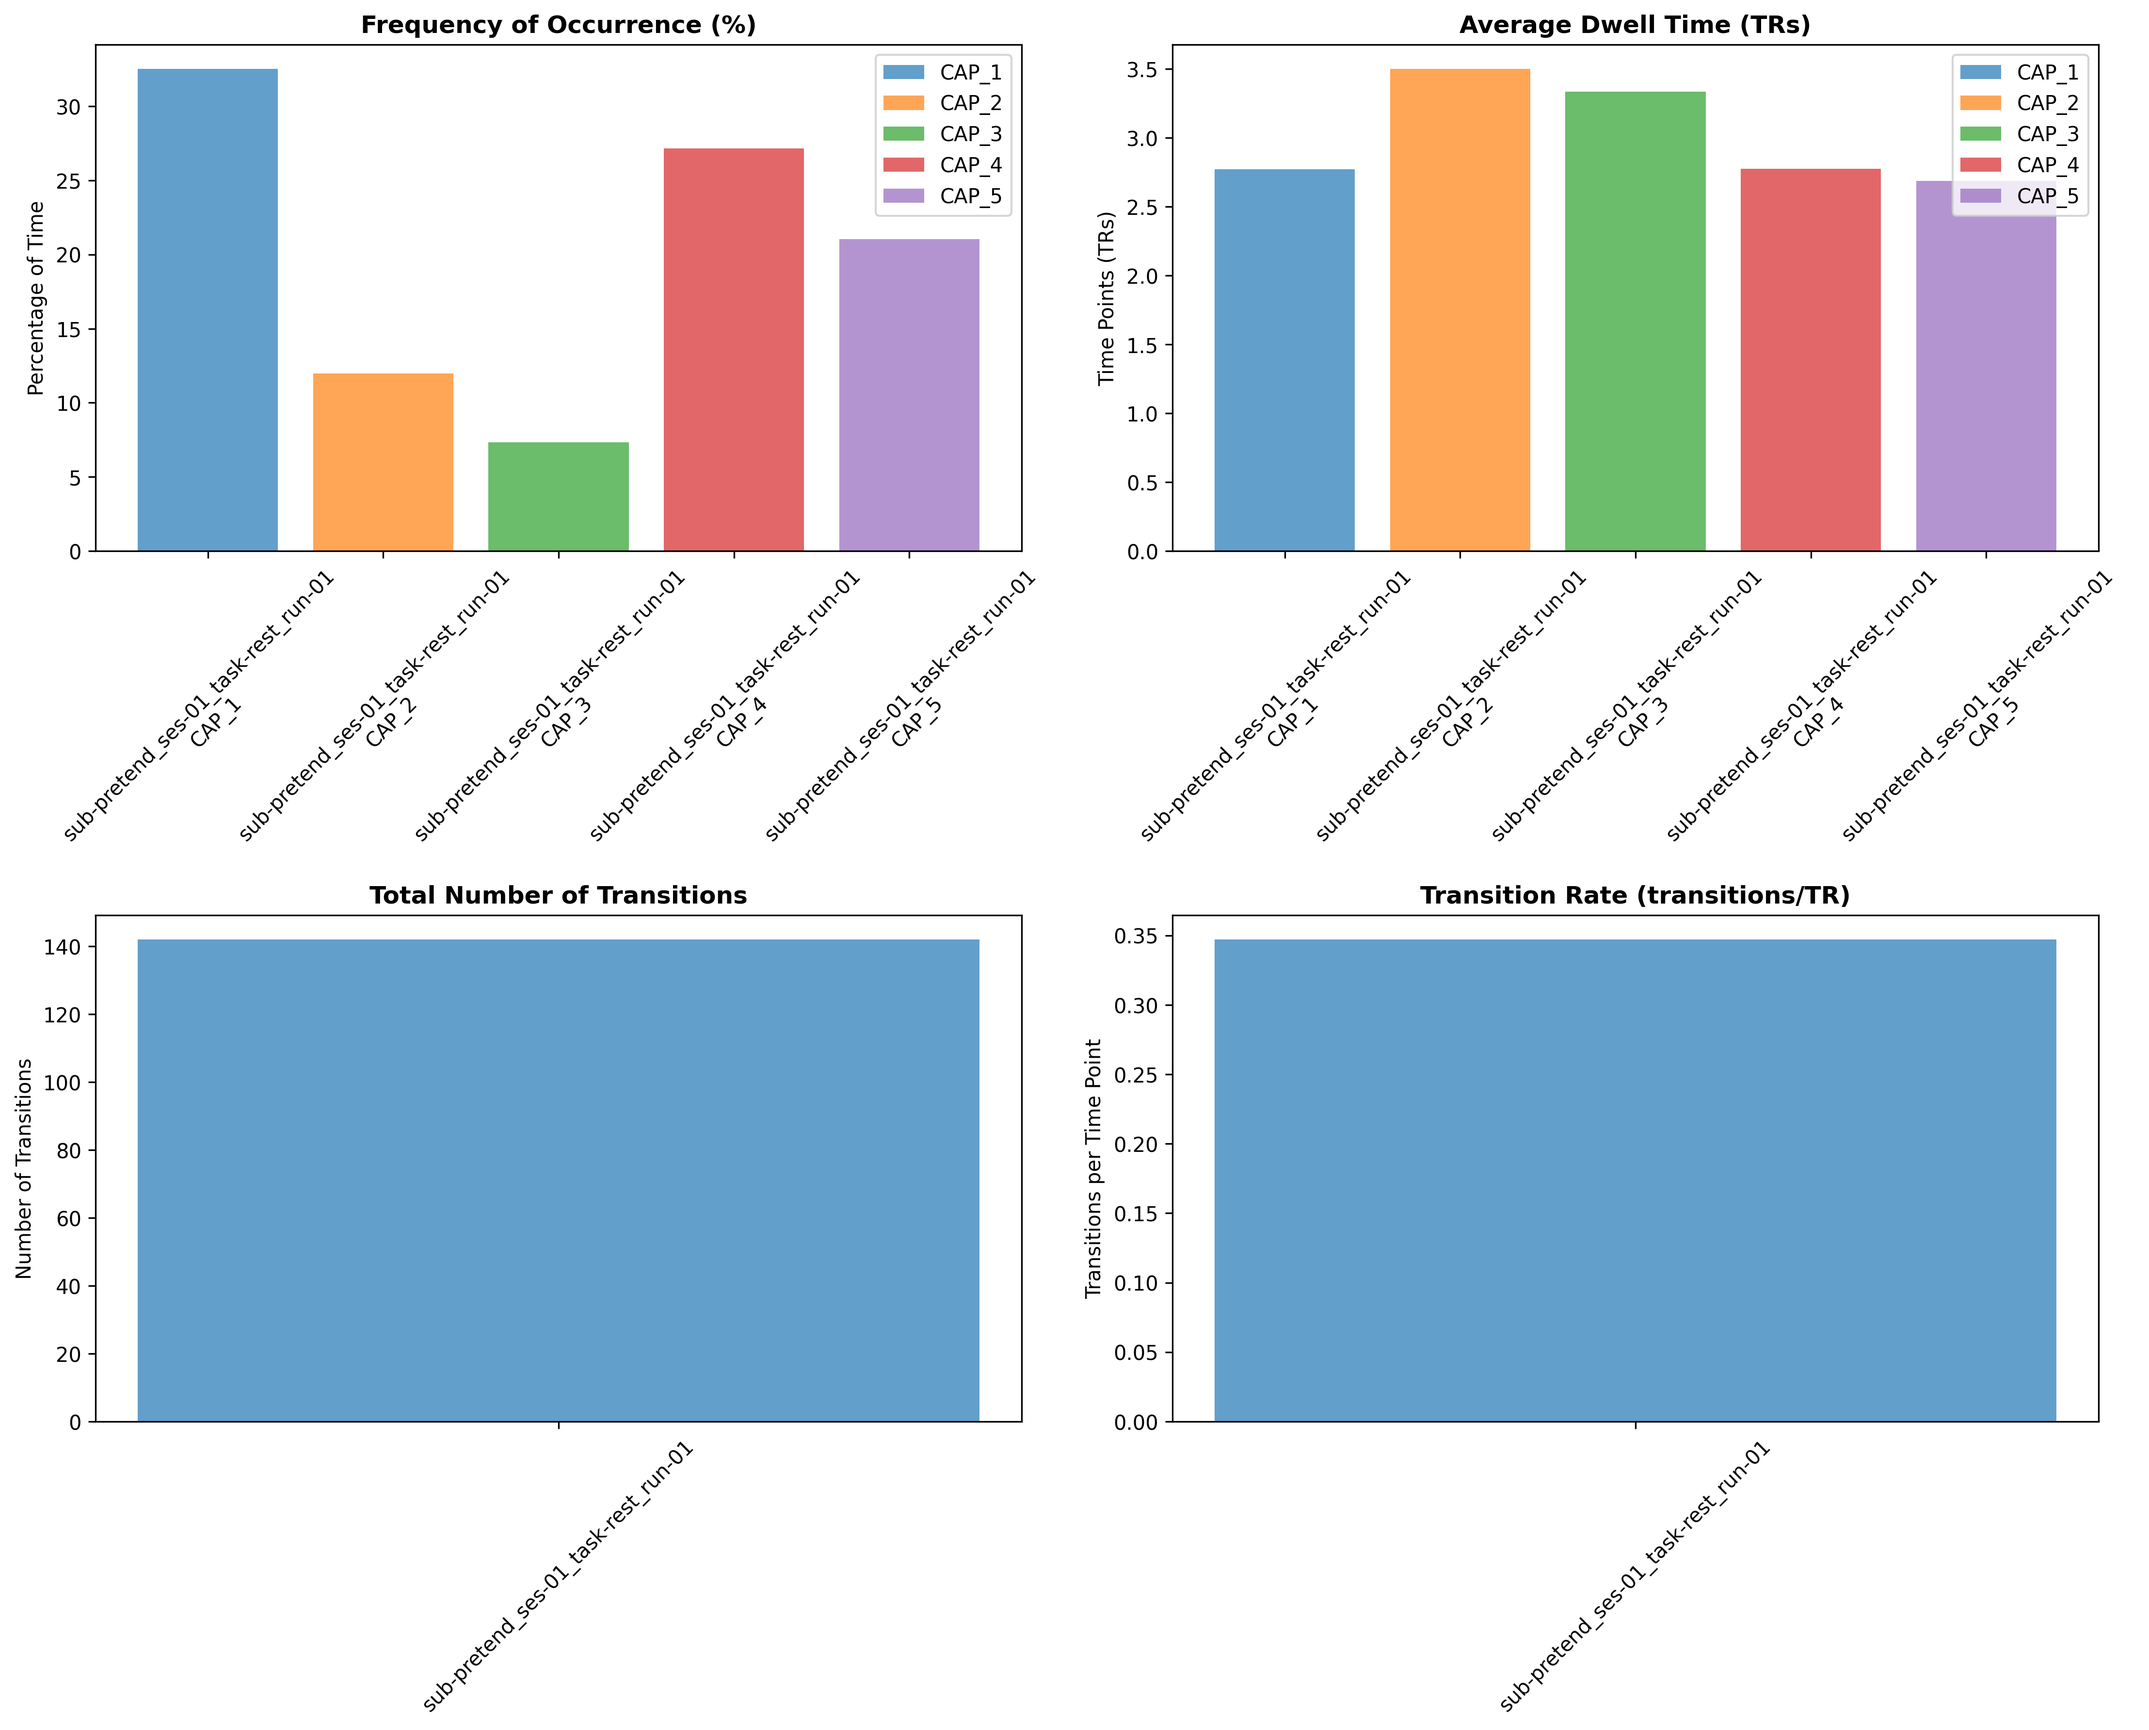
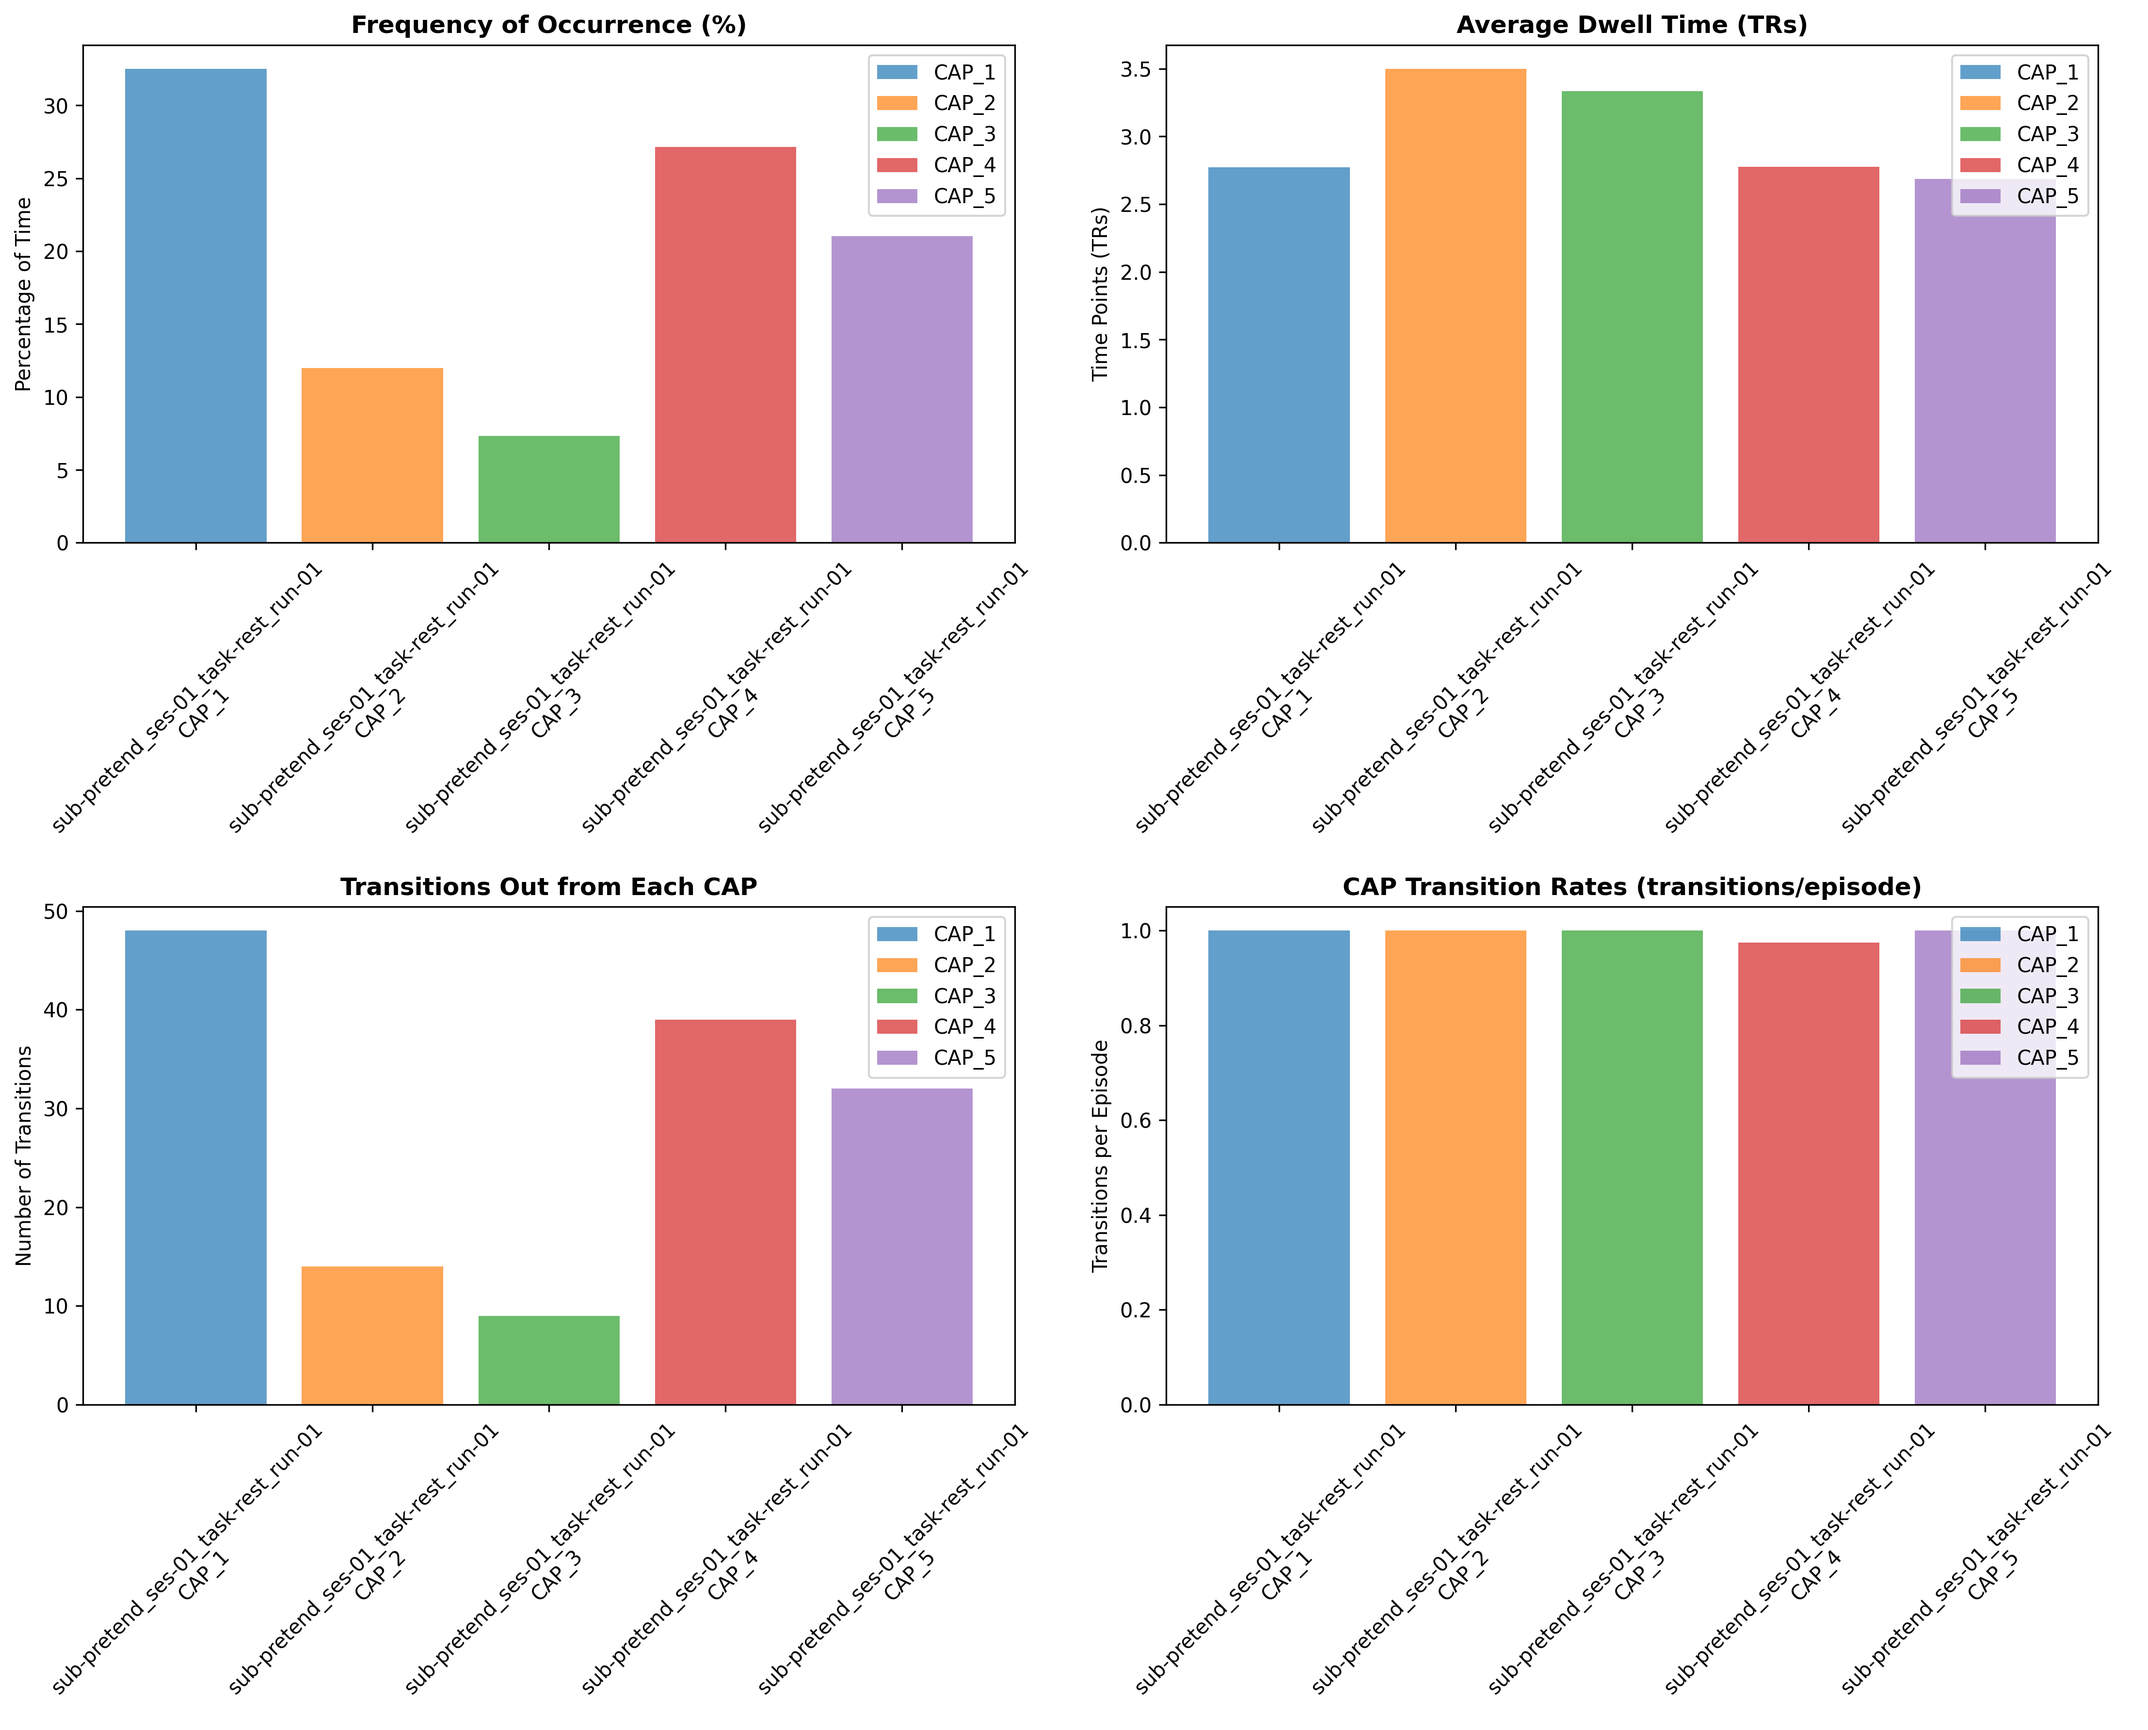
fixing metrics

diff --git a/2a-caps.py b/2a-caps.py
@@ -289,14 +289,38 @@ def calculate_cap_metrics(cluster_labels, run_name="run-01"):
         metrics[f"{cluster_name}_avg_dwell_time"] = avg_dwell_time
         metrics[f"{cluster_name}_n_episodes"] = len(dwell_times)
 
-    # 3. Number of transitions (switches between brain states)
-    n_transitions = 0
+    # 3. Number of transitions FROM each CAP to other brain states
+    for cluster in unique_clusters:
+        cluster_name = f"CAP_{cluster + 1}"
+
+        # Count transitions FROM this CAP to any other CAP
+        transitions_from_cap = 0
+
+        for i in range(len(cluster_labels) - 1):  # -1 because we look ahead
+            if cluster_labels[i] == cluster and cluster_labels[i + 1] != cluster:
+                transitions_from_cap += 1
+
+        metrics[f"{cluster_name}_transitions_out"] = transitions_from_cap
+
+        # Calculate transition rate for this CAP (transitions per episode)
+        n_episodes = metrics[f"{cluster_name}_n_episodes"]
+        if n_episodes > 0:
+            metrics[f"{cluster_name}_transition_rate"] = (
+                transitions_from_cap / n_episodes
+            )
+        else:
+            metrics[f"{cluster_name}_transition_rate"] = 0
+
+    # Overall transition metrics (for comparison)
+    total_transitions = 0
     for i in range(1, len(cluster_labels)):
         if cluster_labels[i] != cluster_labels[i - 1]:
-            n_transitions += 1
+            total_transitions += 1
 
-    metrics["total_transitions"] = n_transitions
-    metrics["transition_rate"] = n_transitions / n_timepoints if n_timepoints > 0 else 0
+    metrics["total_transitions"] = total_transitions
+    metrics["overall_transition_rate"] = (
+        total_transitions / n_timepoints if n_timepoints > 0 else 0
+    )
 
     return metrics
 
@@ -371,20 +395,41 @@ def plot_cap_metrics(metrics_df, save_path=None):
     ax2.tick_params(axis="x", rotation=45)
     ax2.legend()
 
-    # 3 and 4 are broken and need to be fixed
-    # 3. Number of transitions
+    # 3. Transitions out from each CAP
     ax3 = axes[1, 0]
-    ax3.bar(metrics_df["run"], metrics_df["total_transitions"], alpha=0.7)
-    ax3.set_title("Total Number of Transitions", fontweight="bold")
+    for i in range(n_caps):
+        cap_name = f"CAP_{i+1}"
+        trans_col = f"{cap_name}_transitions_out"
+        if trans_col in metrics_df.columns:
+            ax3.bar(
+                [f"{run}\n{cap_name}" for run in metrics_df["run"]],
+                metrics_df[trans_col],
+                alpha=0.7,
+                label=cap_name,
+            )
+
+    ax3.set_title("Transitions Out from Each CAP", fontweight="bold")
     ax3.set_ylabel("Number of Transitions")
     ax3.tick_params(axis="x", rotation=45)
+    ax3.legend()
 
-    # 4. Transition rate
+    # 4. CAP transition rates
     ax4 = axes[1, 1]
-    ax4.bar(metrics_df["run"], metrics_df["transition_rate"], alpha=0.7)
-    ax4.set_title("Transition Rate (transitions/TR)", fontweight="bold")
-    ax4.set_ylabel("Transitions per Time Point")
+    for i in range(n_caps):
+        cap_name = f"CAP_{i+1}"
+        rate_col = f"{cap_name}_transition_rate"
+        if rate_col in metrics_df.columns:
+            ax4.bar(
+                [f"{run}\n{cap_name}" for run in metrics_df["run"]],
+                metrics_df[rate_col],
+                alpha=0.7,
+                label=cap_name,
+            )
+
+    ax4.set_title("CAP Transition Rates (transitions/episode)", fontweight="bold")
+    ax4.set_ylabel("Transitions per Episode")
     ax4.tick_params(axis="x", rotation=45)
+    ax4.legend()
 
     plt.tight_layout()
 
@@ -523,19 +568,21 @@ def main():
         # Print metrics summary
         print("\nCAP Metrics Summary:")
         print(f"  Total timepoints: {cap_metrics['total_timepoints']}")
-        print(f"  Total transitions: {cap_metrics['total_transitions']}")
-        print(f"  Transition rate: {cap_metrics['transition_rate']:.3f} transitions/TR")
 
         for i in range(n_clusters):
             cap_name = f"CAP_{i+1}"
             freq_key = f"{cap_name}_frequency_pct"
             dwell_key = f"{cap_name}_avg_dwell_time"
             episodes_key = f"{cap_name}_n_episodes"
+            trans_out_key = f"{cap_name}_transitions_out"
+            trans_rate_key = f"{cap_name}_transition_rate"
 
             print(f"  {cap_name}:")
             print(f"    Frequency: {cap_metrics[freq_key]:.1f}%")
             print(f"    Avg Dwell Time: {cap_metrics[dwell_key]:.2f} TRs")
             print(f"    Episodes: {cap_metrics[episodes_key]}")
+            print(f"    Transitions out: {cap_metrics[trans_out_key]}")
+            print(f"    Transition rate: {cap_metrics[trans_rate_key]:.3f} /episode")
 
     except Exception as e:
         print(f"Error calculating CAP metrics: {e}")
